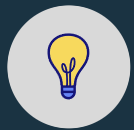
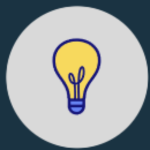
hugo e foda

diff --git a/assets/css/index.css b/assets/css/index.css
@@ -1,0 +1,147 @@
+*{
+    padding:0%;
+    margin: 0;
+    box-sizing: border-box;
+    font-family: Inter;
+}
+
+:root{
+    --cor_fundo: #33658A;
+    --cor_cabeca: #1A3342;
+    --cor_menu: #86BBD8;
+}
+
+body{
+    background-color: var(--cor_fundo);
+    justify-content: center;
+}
+
+#cabecalho{
+    height: 130px;
+    background-color: var(--cor_cabeca);
+    color: white;
+    display: flex;
+    justify-content: space-between;
+    align-content: center;
+    padding: 0 20px;
+    font-size: 30px;
+    line-height: 120px;
+}
+
+#lampada {
+    width: 90px;
+    height: 90px;
+}
+
+#menu{
+    border-radius: 10px;
+    width: 90px;
+    height: 90px;
+    padding: 10px 0;
+}
+
+#form {
+    background-color: var(--cor_menu);
+    width: 350px;
+    height: 450px;
+    display: flex;
+    text-align: center;
+    align-items: center;
+    justify-content: center;
+    flex-direction: column;
+    border-radius: 17px;
+    margin: 80px auto;
+}
+
+#formulario {
+    display: flex;
+    justify-content: center;
+    flex-direction: column;
+    text-align: center;
+    align-items: center;
+}
+
+input{
+    width: 300px;
+    height: 40px;
+    border-radius: 5px;
+    border: none;
+    margin: 20px;
+    user-select: text;
+    font-size: 18px;
+    text-align: center;
+    padding: 10px;
+    transition: transform 0.2s ease;
+}
+
+input:hover {
+    transform: scale(1.05);
+}
+
+::placeholder{
+    font-size: 20px;
+}
+
+label{
+    display: flex;
+    font-size: 25px;
+    cursor: pointer;
+}
+
+button{
+    background-color:  #119DA4;
+    width: 90px;
+    height: 45px;
+    border: none;
+    border-radius: 15px;  
+    font-size: 20px;
+    margin: 10px;
+    cursor: pointer;
+    transition: transform 0.2s ease;
+}
+
+button:hover {
+    transform: scale(1.05);
+}
+
+a {
+    text-decoration: none;
+    color: black;
+    margin: 20px;
+    font-size: 20px;
+    transition: transform 0.2s ease;
+}
+
+a:hover {
+    transform: scale(1.05);
+}
+
+
+
+
+#rodape img {
+    width: 200px;
+    height: 200px;
+    border-radius: 50%;
+    align-content: center;
+    text-align: center;
+    align-items: center;
+    margin: 80px auto;
+}
+
+#logo {
+    position: fixed;
+    left: 20px;
+    bottom: 20px;
+    width: 150px;
+    transition: transform 0.2s ease;
+}
+
+#logo:hover {
+    transform: scale(1.05);
+}
+
+#formulario label {
+    width: 300px;
+    text-align: left;
+}

diff --git a/index.html b/index.html
@@ -4,32 +4,27 @@
     <meta charset="UTF-8">
     <meta name="viewport" content="width=device-width, initial-scale=1.0">
     <title>Tela de login</title>
-    <link rel="stylesheet" href="assets/style.css">
+    <link rel="stylesheet" href="assets/css/index.css">
 </head>
     <body>
         <header id="cabecalho">
-            <div id="imagens"> 
-                <img src="assets/images/logo.PNG" alt="logo da empresa"><br><br>
-                <img src="assets/images/lampada.PNG" alt="Imagem de lampada para trocar modo claro para modo escuro">
-                <img src="assets/images/menu.PNG" alt=" icone de menu "><br>
-            </div>
-            <h1>
-                Faça seu login 
-            </h1>
+                <img src="assets/images/lampada.PNG" alt="Imagem de lampada para trocar modo claro para modo escuro" id="lampada">
+                <h1>Faça seu login </h1>
+                <img src="assets/images/menu.PNG" alt=" icone de menu " id="menu">
         </header>
-        <form method="get" action=dashboard.html>
-            
-            <div id="menu">
-                <label for="email">E-mail *</label><br><br>
-                <input type="email" id="email" placeholder="Enter..." required><br><br>
-
-                <label for="senha">Senha *</label><br><br>
-                <input minlength="8" type="password" id="senha" placeholder="Enter" required><br><br>
-
+        <div id="form">
+            <form method="get" action=dashboard.html id="formulario">
+                <label for="email">E-mail *</label>
+                <input type="email" id="email" placeholder="Enter..." required>
+                <label for="senha">Senha *</label>
+                <input minlength="8" type="password" id="senha" placeholder="Enter" required>
                 <button type="submit">LOGIN</button>
-                <br><br><a href="cadastro.html">Não tenho cadastro</a>
-                <br><br><a href="esqueci_senha.html">Esqueci minha senha</a>
-            </div>
-        </form>
+            </form>
+            <a href="cadastro.html">Criar conta</a>
+            <a href="esqueci_senha.html">Esqueci minha senha</a>
+        </div>
+        <footer id=rodape>
+            <img id="logo" src="assets/images/logo.PNG" alt="logo da empresa" >
+        </footer>
     </body>
 </html>
